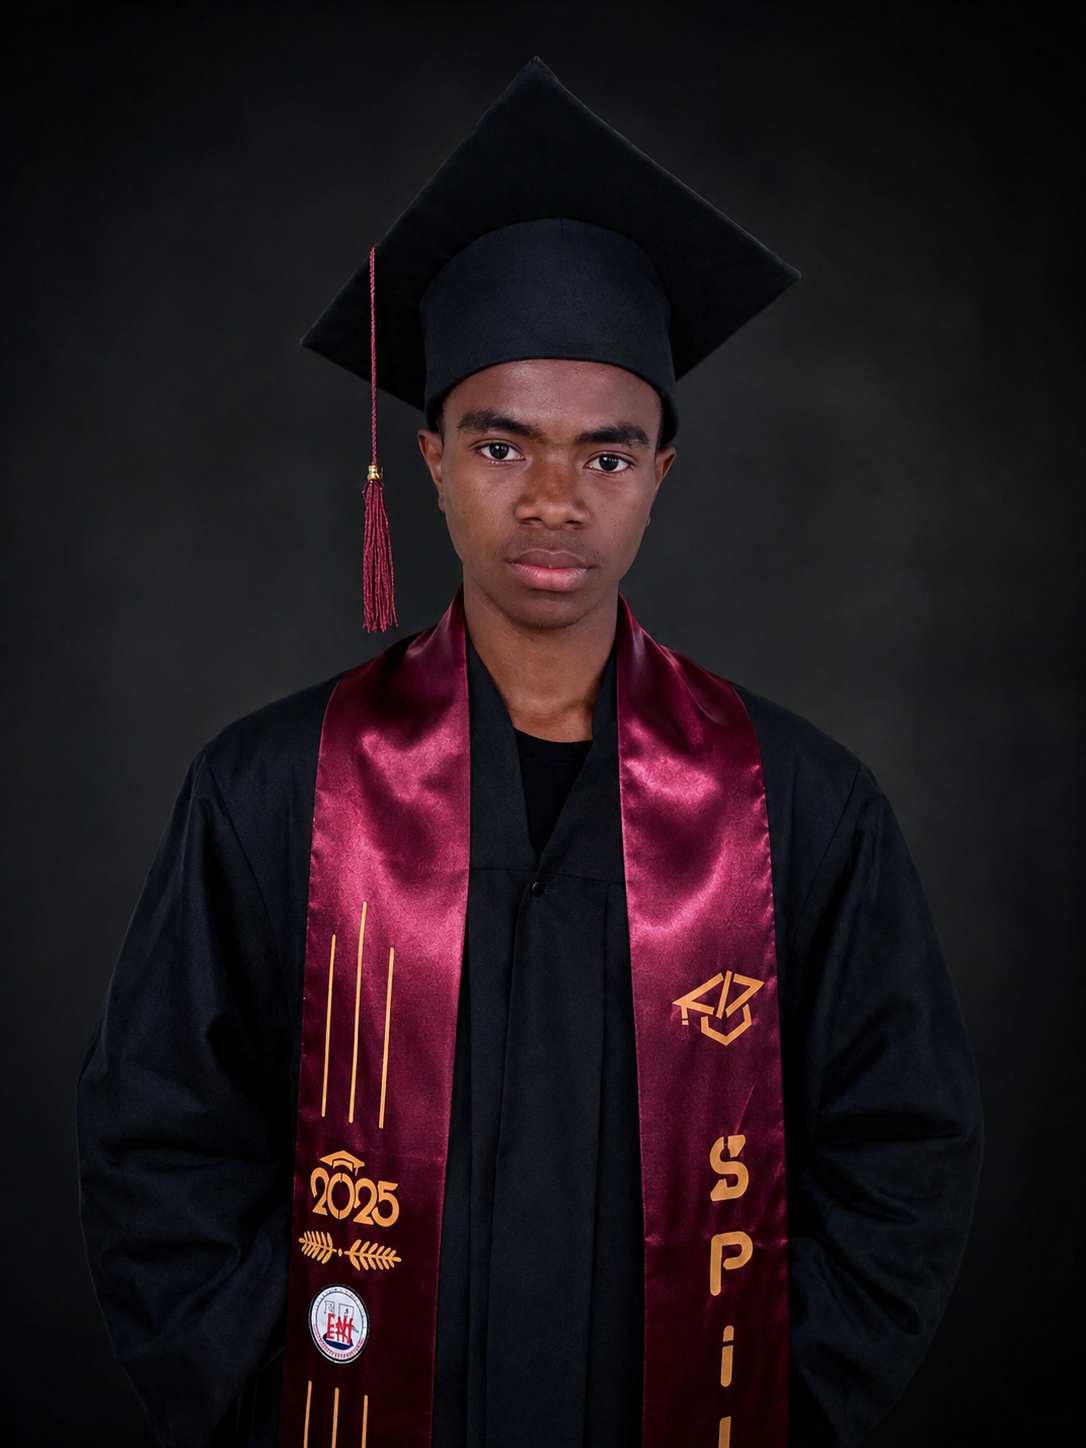
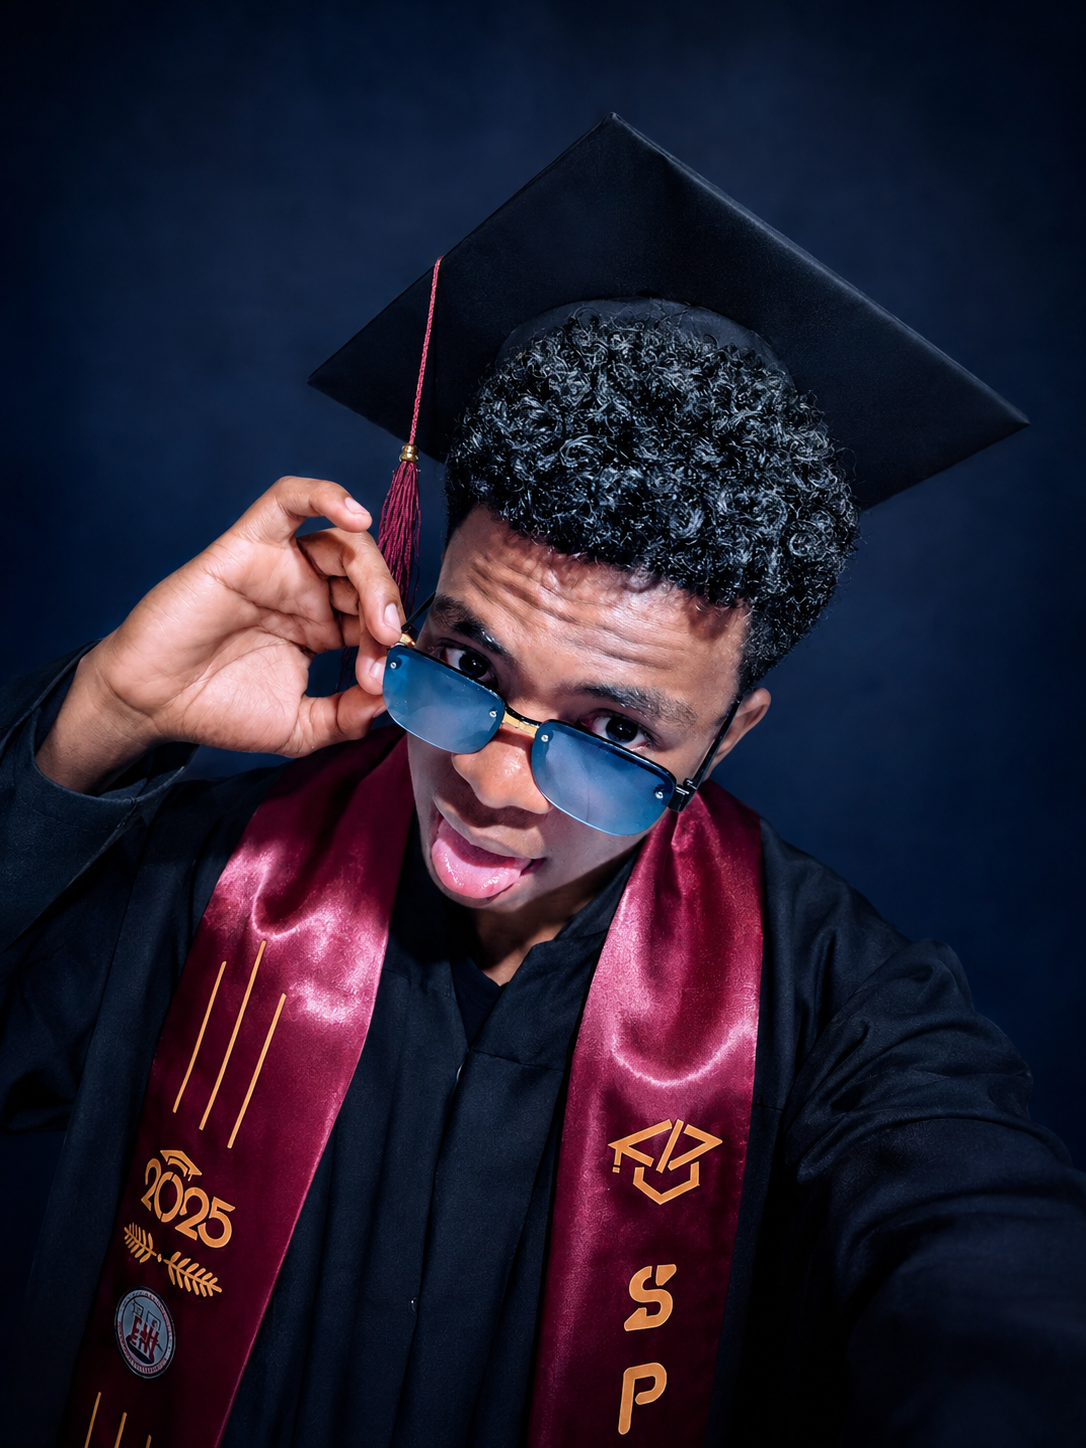
style: replace green backgrounds, borders and glows with blue tones, keep green text colors

diff --git a/src/styles/global.css b/src/styles/global.css
@@ -78,7 +78,7 @@ a { text-decoration: none; color: inherit; }
 }
 .glow { position: absolute; border-radius: 50%; filter: blur(90px); opacity: .35; }
 .glow-blue { width: 46vw; height: 46vw; background: var(--accent-blue); top: -12%; left: -8%; }
-.glow-green { width: 38vw; height: 38vw; background: var(--accent-green); bottom: -14%; right: -6%; opacity: .22; }
+.glow-green { width: 38vw; height: 38vw; background: var(--accent-blue-dim); bottom: -14%; right: -6%; opacity: .22; }
 
 /* ===== TERMINAL WINDOW ===== */
 .terminal-window {
@@ -208,12 +208,12 @@ a { text-decoration: none; color: inherit; }
 [data-theme="light"] .section::before { opacity: .15; }
 .section > * { position: relative; z-index: 1; }
 
-#accueil::before { background: radial-gradient(circle at 15% 20%, var(--accent-blue) 0%, transparent 45%), radial-gradient(circle at 85% 80%, var(--accent-green) 0%, transparent 50%); }
-#profil::before { background: conic-gradient(from 120deg at 50% 50%, var(--accent-blue-glow), transparent 30%, var(--accent-green-glow) 60%, transparent); }
-#competences::before { background: radial-gradient(circle at 75% 25%, var(--accent-green) 0%, transparent 45%), radial-gradient(circle at 15% 85%, var(--accent-blue) 0%, transparent 50%); }
-#projets::before { background: radial-gradient(circle at 25% 75%, var(--accent-blue) 0%, transparent 45%), radial-gradient(circle at 90% 15%, var(--accent-green) 0%, transparent 45%); }
-#formation::before { background: radial-gradient(circle at 50% 40%, var(--accent-green) 0%, transparent 55%); }
-#contact::before { background: radial-gradient(circle at 20% 30%, var(--accent-blue) 0%, transparent 45%), radial-gradient(circle at 80% 75%, var(--accent-green) 0%, transparent 45%); }
+#accueil::before { background: radial-gradient(circle at 15% 20%, var(--accent-blue) 0%, transparent 45%), radial-gradient(circle at 85% 80%, var(--accent-blue-dim) 0%, transparent 50%); }
+#profil::before { background: conic-gradient(from 120deg at 50% 50%, var(--accent-blue-glow), transparent 30%, var(--accent-blue-dim) 60%, transparent); }
+#competences::before { background: radial-gradient(circle at 75% 25%, var(--accent-blue-dim) 0%, transparent 45%), radial-gradient(circle at 15% 85%, var(--accent-blue) 0%, transparent 50%); }
+#projets::before { background: radial-gradient(circle at 25% 75%, var(--accent-blue) 0%, transparent 45%), radial-gradient(circle at 90% 15%, var(--accent-blue-dim) 0%, transparent 45%); }
+#formation::before { background: radial-gradient(circle at 50% 40%, var(--accent-blue-dim) 0%, transparent 55%); }
+#contact::before { background: radial-gradient(circle at 20% 30%, var(--accent-blue) 0%, transparent 45%), radial-gradient(circle at 80% 75%, var(--accent-blue-dim) 0%, transparent 45%); }
 .section:last-of-type { border-bottom: none; }
 
 /* ===== SECTION COMMON ===== */
@@ -225,15 +225,14 @@ a { text-decoration: none; color: inherit; }
   font-family: var(--font-display); font-size: 12px; color: var(--accent-green);
   display: flex; align-items: center; gap: 8px; margin: 0 0 18px;
 }
-.eyebrow .dot { width: 6px; height: 6px; border-radius: 50%; background: var(--accent-green); box-shadow: 0 0 8px var(--accent-green); }
-
+.eyebrow .dot { width: 6px; height: 6px; border-radius: 50%; background: var(--accent-blue); box-shadow: 0 0 8px var(--accent-blue); }
 .section-title {
   font-family: var(--font-display); font-size: clamp(24px, 3vw, 32px); font-weight: 700;
   margin: 0 0 30px; color: var(--text-primary); letter-spacing: -0.5px;
 }
 .section-title::after {
   content: ''; display: block; width: 42px; height: 3px; margin-top: 12px;
-  background: linear-gradient(90deg, var(--accent-blue), var(--accent-green)); border-radius: 2px;
+  background: linear-gradient(90deg, var(--accent-blue), var(--accent-blue-dim)); border-radius: 2px;
 }
 
 /* ===== HERO ===== */
@@ -316,7 +315,7 @@ a { text-decoration: none; color: inherit; }
 .tl-item { position: relative; margin-bottom: 34px; }
 .tl-item:last-child { margin-bottom: 0; }
 .tl-dot { position: absolute; left: -26px; top: 5px; width: 12px; height: 12px; border-radius: 50%; background: var(--bg-body); border: 2px solid var(--accent-blue); }
-.tl-dot-stage { border-color: var(--accent-green); box-shadow: 0 0 0 4px var(--accent-green-glow); }
+.tl-dot-stage { border-color: var(--accent-blue); box-shadow: 0 0 0 4px var(--accent-blue-glow); }
 .tl-top { display: flex; justify-content: space-between; align-items: baseline; gap: 14px; flex-wrap: wrap; }
 .tl-content h3 { font-size: 15.5px; margin: 0; color: var(--text-primary); }
 .tl-date { font-family: var(--font-display); font-size: 11.5px; color: var(--accent-green); white-space: nowrap; flex-shrink: 0; }
@@ -349,7 +348,7 @@ a { text-decoration: none; color: inherit; }
   transition: border-color .18s ease, color .18s ease, transform .18s ease;
 }
 .contact-row svg { color: var(--accent-blue); flex-shrink: 0; }
-a.contact-row:hover { border-color: var(--accent-green); color: var(--text-primary); transform: translateX(3px); }
+a.contact-row:hover { border-color: var(--accent-blue); color: var(--text-primary); transform: translateX(3px); }
 .contact-row-static { cursor: default; }
 .social-row { display: flex; gap: 10px; margin-top: 4px; }
 .social-btn {
@@ -358,7 +357,7 @@ a.contact-row:hover { border-color: var(--accent-green); color: var(--text-prima
   transition: border-color .18s ease, color .18s ease, transform .18s ease;
 }
 .social-btn svg { width: 18px; height: 18px; }
-.social-btn:hover { border-color: var(--accent-green); color: var(--accent-green); transform: translateY(-2px); }
+.social-btn:hover { border-color: var(--accent-blue); color: var(--accent-blue); transform: translateY(-2px); }
 .contact-form-mock {
   background: #05070c; border: 1px solid var(--border-soft); border-radius: 9px; padding: 18px;
   font-family: var(--font-display); font-size: 12.5px; color: #7ee0a8; display: flex; flex-direction: column;
@@ -381,7 +380,7 @@ a.contact-row:hover { border-color: var(--accent-green); color: var(--text-prima
 }
 .hero-photo-glow {
   position: absolute; inset: -14px; border-radius: 50%;
-  background: linear-gradient(135deg, var(--accent-blue), var(--accent-green));
+  background: linear-gradient(135deg, var(--accent-blue), var(--accent-blue-dim));
   filter: blur(24px); opacity: .55; z-index: 0;
 }
 .hero-photo {
@@ -389,12 +388,6 @@ a.contact-row:hover { border-color: var(--accent-green); color: var(--text-prima
   width: 260px; height: 260px; object-fit: cover; border-radius: 50%;
   border: 4px solid var(--bg-card-solid);
   box-shadow: 0 20px 50px -15px rgba(0,0,0,0.5);
-}
-.hero-badge {
-  position: absolute; bottom: 4px; right: -6px; z-index: 2;
-  font-family: var(--font-display); font-size: 11px; font-weight: 600;
-  color: #fff; background: linear-gradient(135deg, var(--accent-blue), var(--accent-green));
-  padding: 6px 12px; border-radius: 20px; box-shadow: 0 8px 20px -6px var(--accent-blue-glow);
 }
 
 .hero-name { font-family: var(--font-display); font-weight: 700; font-size: clamp(24px, 3.4vw, 38px); line-height: 1.25; margin: 0 0 12px; color: var(--text-primary); }
@@ -423,7 +416,7 @@ a.contact-row:hover { border-color: var(--accent-green); color: var(--text-prima
   padding: 7px 16px; cursor: pointer; transition: all .18s ease;
 }
 .filter-btn:hover { border-color: var(--accent-blue); color: var(--text-primary); }
-.filter-btn.active { background: linear-gradient(135deg, var(--accent-blue), var(--accent-green)); color: #fff; border-color: transparent; }
+.filter-btn.active { background: linear-gradient(135deg, var(--accent-blue), var(--accent-blue-dim)); color: #fff; border-color: transparent; }
 
 .skills-icon-grid { display: grid; grid-template-columns: repeat(auto-fill, minmax(110px, 1fr)); gap: 14px; }
 .skill-icon-card {
@@ -431,7 +424,7 @@ a.contact-row:hover { border-color: var(--accent-green); color: var(--text-prima
   background: var(--bg-card-solid); border: 1px solid var(--border-soft); border-radius: 12px;
   padding: 20px 10px; transition: transform .18s ease, border-color .18s ease;
 }
-.skill-icon-card:hover { transform: translateY(-4px); border-color: var(--accent-green); }
+.skill-icon-card:hover { transform: translateY(-4px); border-color: var(--accent-blue); }
 .skill-icon-card img { width: 38px; height: 38px; object-fit: contain; }
 .skill-icon-card span { font-family: var(--font-display); font-size: 11px; color: var(--text-secondary); text-align: center; }
 .skill-icon-card.hidden-skill { display: none; }
@@ -468,7 +461,7 @@ a.contact-row:hover { border-color: var(--accent-green); color: var(--text-prima
 
 .billboard-dots { grid-column: 1 / -1; display: flex; justify-content: center; gap: 8px; }
 .billboard-dot { width: 8px; height: 8px; border-radius: 50%; background: var(--border-strong); border: none; cursor: pointer; transition: all .2s ease; }
-.billboard-dot.active { width: 24px; border-radius: 5px; background: linear-gradient(90deg, var(--accent-blue), var(--accent-green)); }
+.billboard-dot.active { width: 24px; border-radius: 5px; background: linear-gradient(90deg, var(--accent-blue), var(--accent-blue-dim)); }
 
 @media (max-width: 820px) {
   .billboard { grid-template-columns: 1fr; }
@@ -479,7 +472,7 @@ a.contact-row:hover { border-color: var(--accent-green); color: var(--text-prima
 .edu-card-v2 { background: var(--bg-card-solid); border: 1px solid var(--border-soft); border-radius: 14px; overflow: hidden; transition: transform .2s ease; }
 .edu-card-v2:hover { transform: translateY(-4px); }
 .edu-img { width: 100%; height: 160px; object-fit: cover; display: block; }
-.edu-img-placeholder { display: flex; align-items: center; justify-content: center; font-size: 48px; background: linear-gradient(135deg, var(--accent-blue-glow), var(--accent-green-glow)); }
+.edu-img-placeholder { display: flex; align-items: center; justify-content: center; font-size: 48px; background: linear-gradient(135deg, var(--accent-blue-glow), var(--accent-blue-dim)); }
 .edu-card-body { padding: 18px; }
 .edu-year { font-family: var(--font-display); font-size: 11.5px; color: var(--accent-blue); }
 .edu-card-body h3 { font-size: 15px; margin: 8px 0 6px; color: var(--text-primary); }
@@ -503,10 +496,9 @@ a.contact-row:hover { border-color: var(--accent-green); color: var(--text-prima
 }
 .lightbox-overlay.open { opacity: 1; pointer-events: auto; }
 .lightbox-overlay img {
-  max-width: 90vw; max-height: 90vh; border-radius: 12px;
-  border: 3px solid var(--accent-green);
-  box-shadow: 0 0 60px -10px var(--accent-green-glow);
-  transform: scale(.92); transition: transform .3s ease;
+  max-width: 90vw; max-height: 75vh; border-radius: 15px;
+  border: 2px solid white;
+  box-shadow: 0 0 60px -10px var(--accent-blue-glow);
 }
 .lightbox-overlay.open img { transform: scale(1); }
 
